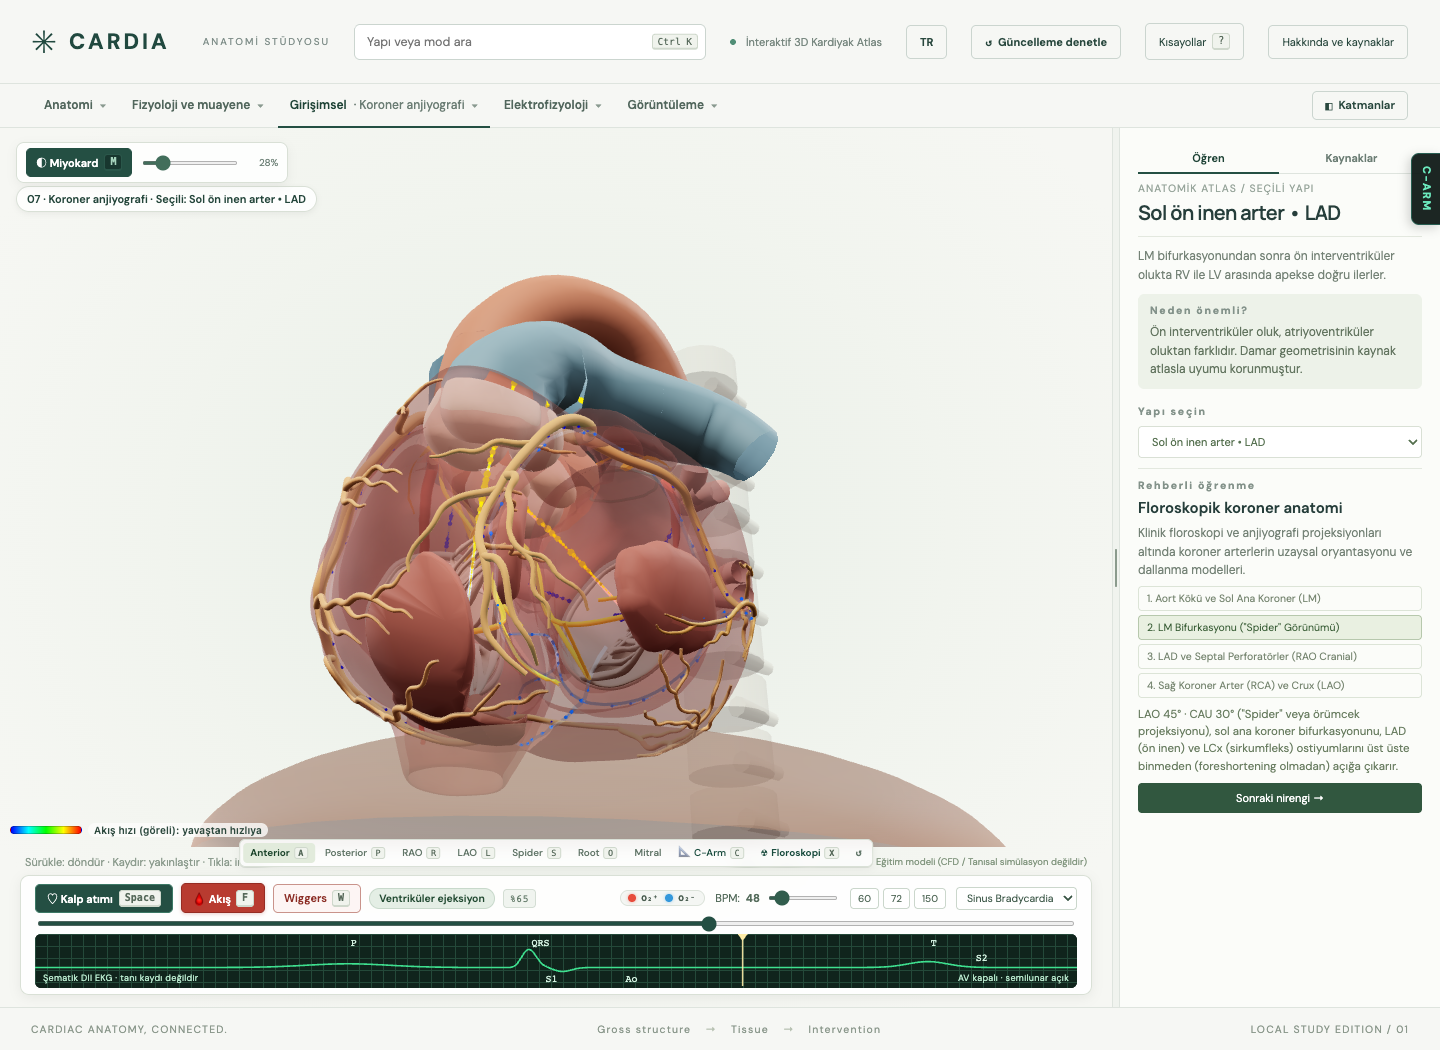
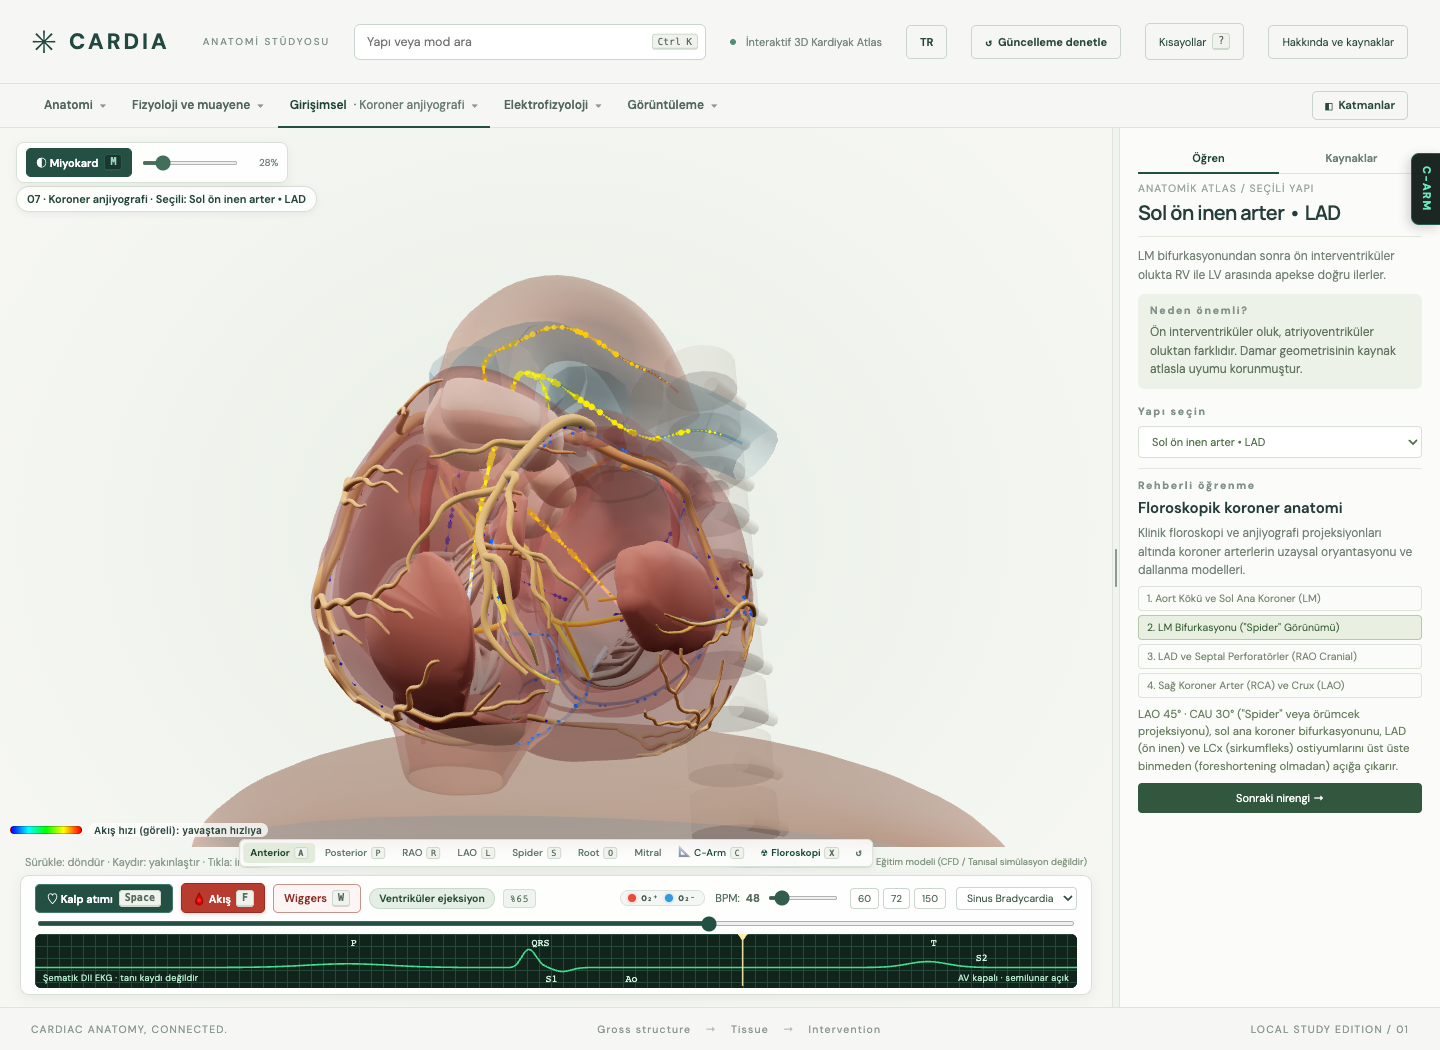
feat: signal strip above the EP interactive panels, per-step EP recordings, vessel opacity follows the slider
- EP panel: the signal strip (channels, zoom, canvas, measurements) sits
  right under the clip row, above the maneuver, pharmacology, pacing,
  task, source-region and PVI panels, so a delivered recording is in view
  next to its controls.
- Ablation lesson: every step opens its own synthetic recording (flutter,
  AVNRT, AF with PV potentials, sinus).
- Great-vessel walls follow the tissue opacity slider; procedural caps
  keep their effective opacity. New browser test test-tissue-opacity.cjs.
- test-ep-koch.cjs updated to the per-step recordings and the two-coupling
  AH jump clip.

diff --git a/src/content.js b/src/content.js
@@ -1032,35 +1032,39 @@ export const rawLessons = {
   ablation: {
     tr: {
       title: 'Elektrofizyolojik anatomi • Tanı, manevralar, tedavi',
-      intro: 'Aritmi substratlarının anatomik temeli ve sinyal paneli: CTI, Koch üçgeni, PVI; son adımdaki panelde Tanı / Manevralar / Tedavi bölümleri ve sentetik olgu kayıtları.',
+      intro: 'Aritmi substratlarının anatomik temeli: CTI, Koch üçgeni, PVI. Her adım ilgili sentetik başlangıç kaydını açar; kayıtları Tanı / Manevralar / Tedavi panelinde inceleyin.',
       steps: [
         {
           title: 'Kavotriküspit İstmus (CTI) • Atriyal Flatter',
           text: 'Kavotriküspit istmus (CTI), triküspit anulusunun inferior kenarı ile İVC ağzı arasındaki sağ atriyum tabanıdır; tipik saat yönü tersi atriyal flatter devresinin zorunlu geçididir. Standart lezyon hattı LAO projeksiyonunda saat 6 hizasında (santral istmus), CS ostiyumunun lateralinden anulustan İVC\'ye çekilir; hedef çift yönlü istmus blokudur. Mavi halka ölçülen İVC ağzını gösterir (atlasta İVC mesh\'i yoktur).',
           landmark: 'ivc',
-          view: 'lao'
+          view: 'lao',
+          egm: 'flutter-svt'
         },
         {
           title: 'Koch Üçgeni ve Yavaş Yol • AVNRT',
           text: 'Koch üçgeni, sağ atriyumun alt paraseptal bölgesinde inferior piramidal boşluğun sağ atriyal yüzüdür; atitüdinal konumda apeksi süperiora bakar. Taban: CS ostiyumu hizasındaki inferior istmus (yeşil). Posterosüperior kenar: Eustachian ve Thebesian valflerinin komissüründen doğan Todaro tendonu (beyaz). Anterior kenar: triküspit septal yaprakçık menteşesi (turkuaz). İki kenar membranöz septumda birleşir. Apeks: kompakt AV düğüm (kırmızı; ablasyon kalıcı AV blok riski taşır, yeri bireyler arasında değişkendir). Düğüm, inferior uzantıların (açık yeşil: uzun sağ uzantı triküspit vestibülünde, kısa sol uzantı mitral vestibülünde) atriyal septum buttress\'ından gelen septal girdilerle (turuncu, hızlı yol) birleşmesiyle oluşur. Mor şematik kateter İVK ağzından sağ atriyuma girer; beyaz ucu inferior yavaş yol hedefine uzanır. Doku teması ve güvenli mesafe modellenmez. Junctional ritim tek başına başarı değildir; AVNRT indüklenebilirliği ve AV iletim değerlendirilir. Yavaş yol hedefi septal istmustur: CS ağzı ile septal menteşe arası (yeşil küre). Sarı kama inferior piramidal boşluktur: sağ atriyal duvar ile müsküler septum arasındaki fibro-adipöz "AV kas sandviçi"; apeksi infero-septal girintiyle örtüşür ve His buradan septum krestine geçer. Floroskopide RAO projeksiyonu üçgeni en iyi gösterir: taban proksimal CS elektrotlarından çizilen yatay hat, apeks His kateteri, anterior kenar His\'ten tabana inen dikey hat (TV septal yaprakçığı). Yakın plan: fuşya His kateteri üst (apeks) referansı, mavi CS kateteri taban (ostiyum) referansıdır; Araçlar sekmesindeki Koch · RAO 30 ve Koch · LAO 45 düğmeleriyle karşılaştırın. RAO septumu önden, LAO septumu yandan gösterir: hedefin apeksten uzaklığı RAO\'da, septuma göre konumu LAO\'da okunur. Projeksiyon tek başına kateter konumunu doğrulamaz. Etiketler kaynağı söyler: CS ağzı kestirimdir, septal menteşe atlas halkasından ölçülür, AV düğüm ve yavaş yol hedefi şematiktir. Örnek RF lezyonları varsayılan olarak gizlidir; sayı ve dağılım tedavi protokolü değildir.',
           landmark: 'av',
-          view: 'koch_rao'
+          view: 'koch_rao',
+          egm: 'avnrt-typ-svt'
         },
         {
           title: 'Pulmoner Ven İzolasyonu (WACA / PVI) • AF',
           text: 'AF tetikleyicilerinin çoğu pulmoner ven miyokard kılıflarından kaynaklanır. WACA\'da aynı taraftaki ven çiftleri (LSPV+LIPV, RSPV+RIPV) ostiyumların birkaç mm dışında, antrumdan geniş çevresel halkayla izole edilir; hedef giriş ve çıkış blokudur. Posterior duvarda özofagus (termal hasar, atriyo-özofageal fistül), sağ venlerde sağ frenik sinir (kryobalonda frenik pacing ile izlenir) risklidir.',
           landmark: 'la',
-          view: 'posterior'
+          view: 'posterior',
+          egm: 'af-pvi-baseline'
         },
         {
           title: 'Kombine EP Haritası & Lineer Hatlar',
           text: 'Tüm hedefler bir arada. Çatı hattı iki süperior veni LA tavanında birleştirir (çatıya bağlı flatter). Mitral istmus hattı LIPV\'den lateral mitral anulusa uzanır (perimitral flatter); blok için çoğu zaman koroner sinüs içinden de uygulama gerekir, sirkumfleks arter yakındır. Sağda CTI hattı ve Koch üçgeni. Doğal iletim bariyerleri (crista terminalis, fossa ovalis, venöz ostiyumlar) makro-reentry devrelerini yönlendirir.',
           landmark: 'la',
-          view: 'posterior'
+          view: 'posterior',
+          egm: 'sinus'
         },
         {
           title: 'Sinyal paneli • Tanı, manevralar, tedavi',
-          text: 'Aşağıdaki şerit sentetiktir; klinik kayıt değildir ve karar kuralı vermez. Paneldeki Tanı / Manevralar / Tedavi sekmeleri sentetik olgu kayıtlarını açar: mekanizması gizli taşikardi kayıtları, His-refrakter PVC ve overdrive manevraları, ablasyon sonlanım klipleri. Sinüs ritminde His kateterinde A, keskin H ve V görülür (AH ve HV aralıkları). Yavaş yol hedefinde ablasyon kateteri küçük (bazen bölünmüş) A ve büyük V kaydeder, His potansiyeli yoktur; hedef seçimi anatomi ile elektrogramın birlikte değerlendirilmesidir, sabit bir oran değildir. RF sırasında junctional ritim görülebilir, fakat tek başına başarı göstergesi değildir: temel sonlanım AV iletim korunarak AVNRT\'nin yeniden indüklenememesidir. Junctional atımlarda VA blok veya hızlı junctional ritim enerjiyi durdurma uyarısıdır. Senaryoları şeridin üstündeki düğmelerle değiştirin; imleç kalp döngüsüyle ilerler.',
+          text: 'Aşağıdaki şerit sentetiktir; klinik kayıt değildir ve karar kuralı vermez. Paneldeki Tanı / Manevralar / Tedavi sekmeleri sentetik olgu kayıtlarını açar: mekanizması gizli taşikardi kayıtları, His-refrakter PVC ve overdrive manevraları, ablasyon sonlanım klipleri. Sinüs ritminde His kateterinde A, keskin H ve V görülür (AH ve HV aralıkları). Yavaş yol hedefinde ablasyon kateteri küçük (bazen bölünmüş) A ve büyük V kaydeder, His potansiyeli yoktur; hedef seçimi anatomi ile elektrogramın birlikte değerlendirilmesidir, sabit bir oran değildir. RF sırasında junctional ritim görülebilir, fakat tek başına başarı göstergesi değildir: temel sonlanım AV iletim korunarak AVNRT\'nin yeniden indüklenememesidir. Junctional atımlarda VA blok veya hızlı junctional ritim enerjiyi durdurma uyarısıdır. Senaryoları şeridin üstündeki düğmelerle değiştirin; şeritte seçtiğiniz noktadaki zaman ve olaylar imleçle okunur.',
           landmark: 'koch-slow',
           view: 'koch_rao',
           egm: 'sinus'
@@ -1069,35 +1073,39 @@ export const rawLessons = {
     },
     en: {
       title: 'Electrophysiological anatomy • Diagnosis, maneuvers, treatment',
-      intro: 'Anatomical basis of arrhythmia substrates plus the signal panel: CTI, triangle of Koch, PVI; the last step opens the Diagnosis / Maneuvers / Treatment sections with synthetic case recordings.',
+      intro: 'Anatomical basis of arrhythmia substrates: CTI, triangle of Koch, PVI. Each step opens its matching synthetic baseline recording; inspect it in the Diagnosis / Maneuvers / Treatment panel.',
       steps: [
         {
           title: 'Cavotricuspid Isthmus (CTI) • Atrial Flutter',
           text: 'The cavotricuspid isthmus (CTI) is the right atrial floor between the inferior tricuspid annulus and the IVC orifice, the obligatory corridor of typical counterclockwise flutter. The standard lesion line runs at 6 o\'clock in LAO (central isthmus), lateral to the CS ostium, from the annulus to the IVC; the goal is bidirectional isthmus block. The blue ring marks the measured IVC orifice (the atlas has no IVC mesh).',
           landmark: 'ivc',
-          view: 'lao'
+          view: 'lao',
+          egm: 'flutter-svt'
         },
         {
           title: 'Triangle of Koch & Slow Pathway • AVNRT',
           text: 'The triangle of Koch is the right atrial face of the inferior pyramidal space in the lower paraseptal right atrium; in attitudinal orientation its apex points superiorly. Base: the inferior isthmus at the CS ostium (green). Posterosuperior side: the tendon of Todaro, arising at the commissure of the Eustachian and Thebesian valves (white). Anterior side: the septal tricuspid hinge (cyan). The two sides converge at the membranous septum. Apex: the compact AV node (red; ablation risks permanent AV block, and its position varies between individuals). The node forms where the inferior extensions (light green: the long rightward one in the tricuspid vestibule, the short leftward one in the mitral vestibule) join septal inputs from the atrial buttress (orange, fast pathway). The purple schematic catheter enters the RA from the IVC mouth; its white tip reaches the inferior slow-pathway target. Tissue contact and safe clearance are not modeled. Junctional rhythm alone does not establish success; AVNRT inducibility and AV conduction are assessed. The slow-pathway target is the septal isthmus, between the CS mouth and the septal hinge (green sphere). The amber wedge is the inferior pyramidal space: the fibro-adipose "AV muscular sandwich" between the RA wall and the muscular septum; its apex overlaps the infero-septal recess, where the His bundle passes to the septal crest. On fluoroscopy the RAO view shows the triangle best: base = a horizontal line through the proximal CS electrodes, apex = the His catheter, anterior side = the vertical drop from His to the base (septal tricuspid leaflet). Close-up: the magenta His catheter is the superior (apex) reference and the blue CS catheter the base (ostial) reference; compare with the Koch · RAO 30 and Koch · LAO 45 buttons in the Tools tab. RAO shows the septum en face, LAO along its edge: the target\'s distance from the apex reads in RAO, its position relative to the septum in LAO. A projection alone does not confirm catheter position. Labels state their source: the CS mouth is estimated, the septal hinge is measured from the atlas rim, the AV node and slow-pathway target are schematic. The example RF lesions are hidden by default; their number and spread are not a treatment protocol.',
           landmark: 'av',
-          view: 'koch_rao'
+          view: 'koch_rao',
+          egm: 'avnrt-typ-svt'
         },
         {
           title: 'Wide Area Circumferential Ablation (WACA) • AF',
           text: 'Most AF triggers arise in the pulmonary vein myocardial sleeves. WACA isolates each ipsilateral pair (LSPV+LIPV, RSPV+RIPV) with a wide antral ring a few mm outside the ostia; the goal is entrance and exit block. Watch the esophagus behind the posterior wall (thermal injury, atrio-esophageal fistula) and the right phrenic nerve near the right veins (monitored with phrenic pacing during cryoballoon).',
           landmark: 'la',
-          view: 'posterior'
+          view: 'posterior',
+          egm: 'af-pvi-baseline'
         },
         {
           title: 'Comprehensive EP Substrate & Linear Sets',
           text: 'All targets together. The roof line joins the two superior veins across the LA roof (roof-dependent flutter). The mitral isthmus line runs from the LIPV to the lateral mitral annulus (perimitral flutter); block often needs lesions from inside the coronary sinus, and the circumflex artery lies close. On the right: the CTI line and Koch\'s triangle. Natural barriers (crista terminalis, oval fossa, venous orifices) channel macro-reentrant circuits.',
           landmark: 'la',
-          view: 'posterior'
+          view: 'posterior',
+          egm: 'sinus'
         },
         {
           title: 'Signal panel • Diagnosis, maneuvers, treatment',
-          text: 'The strip below is synthetic; it is not a clinical recording and gives no decision rule. The Diagnosis / Maneuvers / Treatment tabs of the panel open the synthetic case recordings: mechanism-hidden tachycardias, His-refractory PVC and overdrive maneuvers, and the ablation endpoint clips. In sinus rhythm the His catheter records A, a sharp H and V (AH and HV intervals). At the slow-pathway target the ablation catheter records a small (sometimes fragmented) A and a large V with no His potential; target choice weighs anatomy and electrograms together, not a fixed ratio. Junctional rhythm may appear during RF, but it alone does not indicate success: the key endpoint is noninducibility of AVNRT with preserved AV conduction. VA block in junctional beats, or a fast junctional rhythm, is a warning to stop energy delivery. Switch scenarios with the buttons above the strip; the cursor follows the cardiac cycle.',
+          text: 'The strip below is synthetic; it is not a clinical recording and gives no decision rule. The Diagnosis / Maneuvers / Treatment tabs of the panel open the synthetic case recordings: mechanism-hidden tachycardias, His-refractory PVC and overdrive maneuvers, and the ablation endpoint clips. In sinus rhythm the His catheter records A, a sharp H and V (AH and HV intervals). At the slow-pathway target the ablation catheter records a small (sometimes fragmented) A and a large V with no His potential; target choice weighs anatomy and electrograms together, not a fixed ratio. Junctional rhythm may appear during RF, but it alone does not indicate success: the key endpoint is noninducibility of AVNRT with preserved AV conduction. VA block in junctional beats, or a fast junctional rhythm, is a warning to stop energy delivery. Switch scenarios with the buttons above the strip; the cursor reads the time and events at the point you select on the strip.',
           landmark: 'koch-slow',
           view: 'koch_rao',
           egm: 'sinus'

diff --git a/src/heart.js b/src/heart.js
@@ -226,7 +226,9 @@ export function createHeart(container, onSelect = () => {}, onHover = () => {}, 
       const catheterVessel=(mode==='transseptal'&&['aorta','pa','cs','svc','ivc'].includes(id))||(mode==='cath'&&['aorta','pa','svc','ivc'].includes(id));
       const roofContext=mode==='bachmann'&&(layer==='vessels'||layer==='coronaries');
       const faintPa=visibility['pa-faint']&&id==='pa';
-      const alpha=mode==='defects'?(layer==='chambers'?.16:layer==='valves'?.55:.22):mode==='atria'&&selected==='laa'?(id==='la'?Math.min(opacity,.32):1):tissue?opacity:faintPa?.22:roofContext?.14:catheterVessel?.28:(id==='aorta'&&rootWindow?.22:1);
+      let alpha=mode==='defects'?(layer==='chambers'?.16:layer==='valves'?.55:.22):mode==='atria'&&selected==='laa'?(id==='la'?Math.min(opacity,.32):1):tissue?opacity:faintPa?.22:roofContext?.14:catheterVessel?.28:(id==='aorta'&&rootWindow?.22:1);
+      // Great-vessel walls follow the slider while procedural caps stay effective.
+      if(layer==='vessels')alpha=Math.min(alpha,opacity);
       m.material.opacity=alpha;m.material.transparent=alpha<1;m.material.depthWrite=alpha>=.95;
       m.material.clippingPlanes=mode==='defects'?[]:vesselTrims.has(m.name)?[vesselTrims.get(m.name)]:id==='aorta'&&rootWindow?[rootPlane]:id==='ivc'?[ivcPlane]:wallCuts[id]>0&&wallPlanes.has(id)?[wallPlanes.get(id).plane]:[];
       if(layer==='coronaries'){

diff --git a/src/ep-panel.js b/src/ep-panel.js
@@ -217,7 +217,10 @@ export function createEpPanel(mount, { getLang, onScenario, onZone, getPvi } = {
   const compare = el('p', 'ep-compare');
   const endpoint = el('p', 'ep-endpoint');
   const sources = el('p', 'ep-sources');
-  root.append(eyebrow, tabs, caseRow, title, row, taskPanel.element, originPanel.element, simPanel.element, pharmaPanel.element, pacingPanel.element, pviPanel.element, viewBar, canvas, inspect, measures, sizeBtn, evidenceBtn, result, text, card, compareBox, mapBox, zoneLine, compare, endpoint, sources);
+  // The signal strip sits right under the clip row, above the interactive
+  // panels (maneuver, pharmacology, pacing, task, source region, PVI), so a
+  // delivered maneuver's recording is in view next to its controls.
+  root.append(eyebrow, tabs, caseRow, title, row, viewBar, canvas, inspect, measures, sizeBtn, taskPanel.element, originPanel.element, simPanel.element, pharmaPanel.element, pacingPanel.element, pviPanel.element, evidenceBtn, result, text, card, compareBox, mapBox, zoneLine, compare, endpoint, sources);
   mount.appendChild(root);
 
   let lastDrawn = null;

diff --git a/README.md b/README.md
@@ -6,6 +6,7 @@ Heart chambers, aortic root/arch, coronary arteries, cardiac veins and leaflets 
 
 - Separate left main, LAD, LCx and RCA selection.
 - Left/right coronary filters, with displayed tissue opacity updated to match.
+- Tissue opacity also controls the atlas great-vessel walls. Procedural transparency caps remain effective; coronary arteries and valves retain their normal visibility. `npm run test:opacity` checks the slider, reset, and catheter-mode caps in Chrome.
 - Aortic root viewing section; source leaflets are distinct from sinus walls and ostia.
 - Independent RV anterior/free-wall-direction, LV lateral, LA posterior and RA lateral **geometric section windows**. These are viewing cuts, not labelled anatomical free-wall segments or histological layers. Only the chosen chamber is clipped. Valves, papillary muscles and vessels remain independent.
 - One button restores all wall windows. Chamber checkboxes hide whole chambers.
@@ -19,6 +20,8 @@ Unregistered legacy catheter curves are no longer superimposed on this anatomy. 
 - **Reference notes** (`REFERENCE NOTE / NO REGISTERED MESH`): Contextual learning landmarks without dedicated 3D geometry.
 
 ## Ablation: Koch close-up, reference catheters, synthetic EGM (Mode 09)
+
+EP opens its Diagnosis / Maneuvers / Treatment panel from the first lesson, above the lesson text. CTI starts with the flutter recording, Koch with typical AVNRT, and PVI with AF/PV potentials; the combined map and signal lesson start with sinus. The generic structure card stays hidden while this panel is open, and returns in anatomy mode. Desktop and phone opening/step/restoration checks are part of `npm run test:ep-flow`.
 
 The Koch step opens in a Koch · RAO 30 close-up (Koch · LAO 45 in the header Tools tab); the camera stays outside the heart and the coronaries and valve apparatus are hidden in front of the triangle. Scene labels state their source (CS mouth estimated, septal hinge from the atlas rim, AV node and slow-pathway target schematic). Magenta His and blue CS reference catheters and the optional example RF lesions (off by default) toggle in the same Tools tab. Step 5 shows an explicitly synthetic six-channel electrogram (sinus, slow-pathway target, junctional rhythm during RF, VA block warning). Record: `research/ABLASYON_IYILESTIRME_RAPORU.md`. Run `npm run test:ep-koch` against the development server.
 
